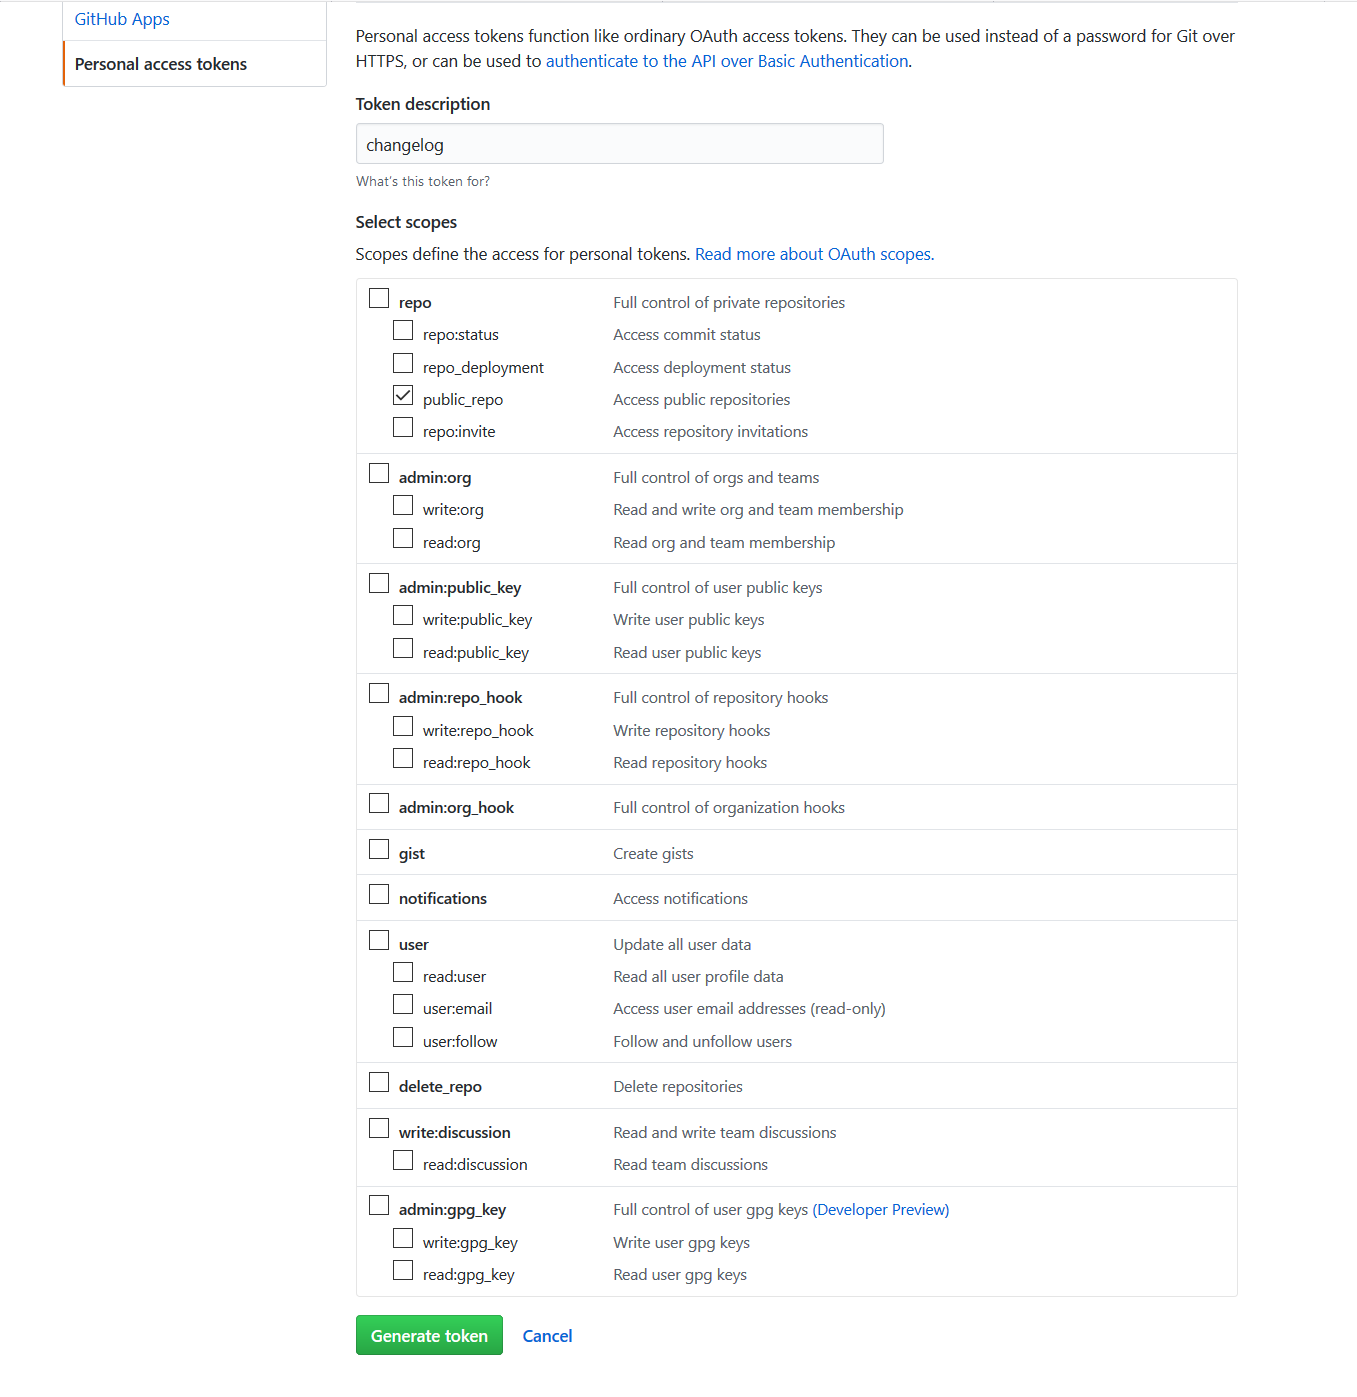
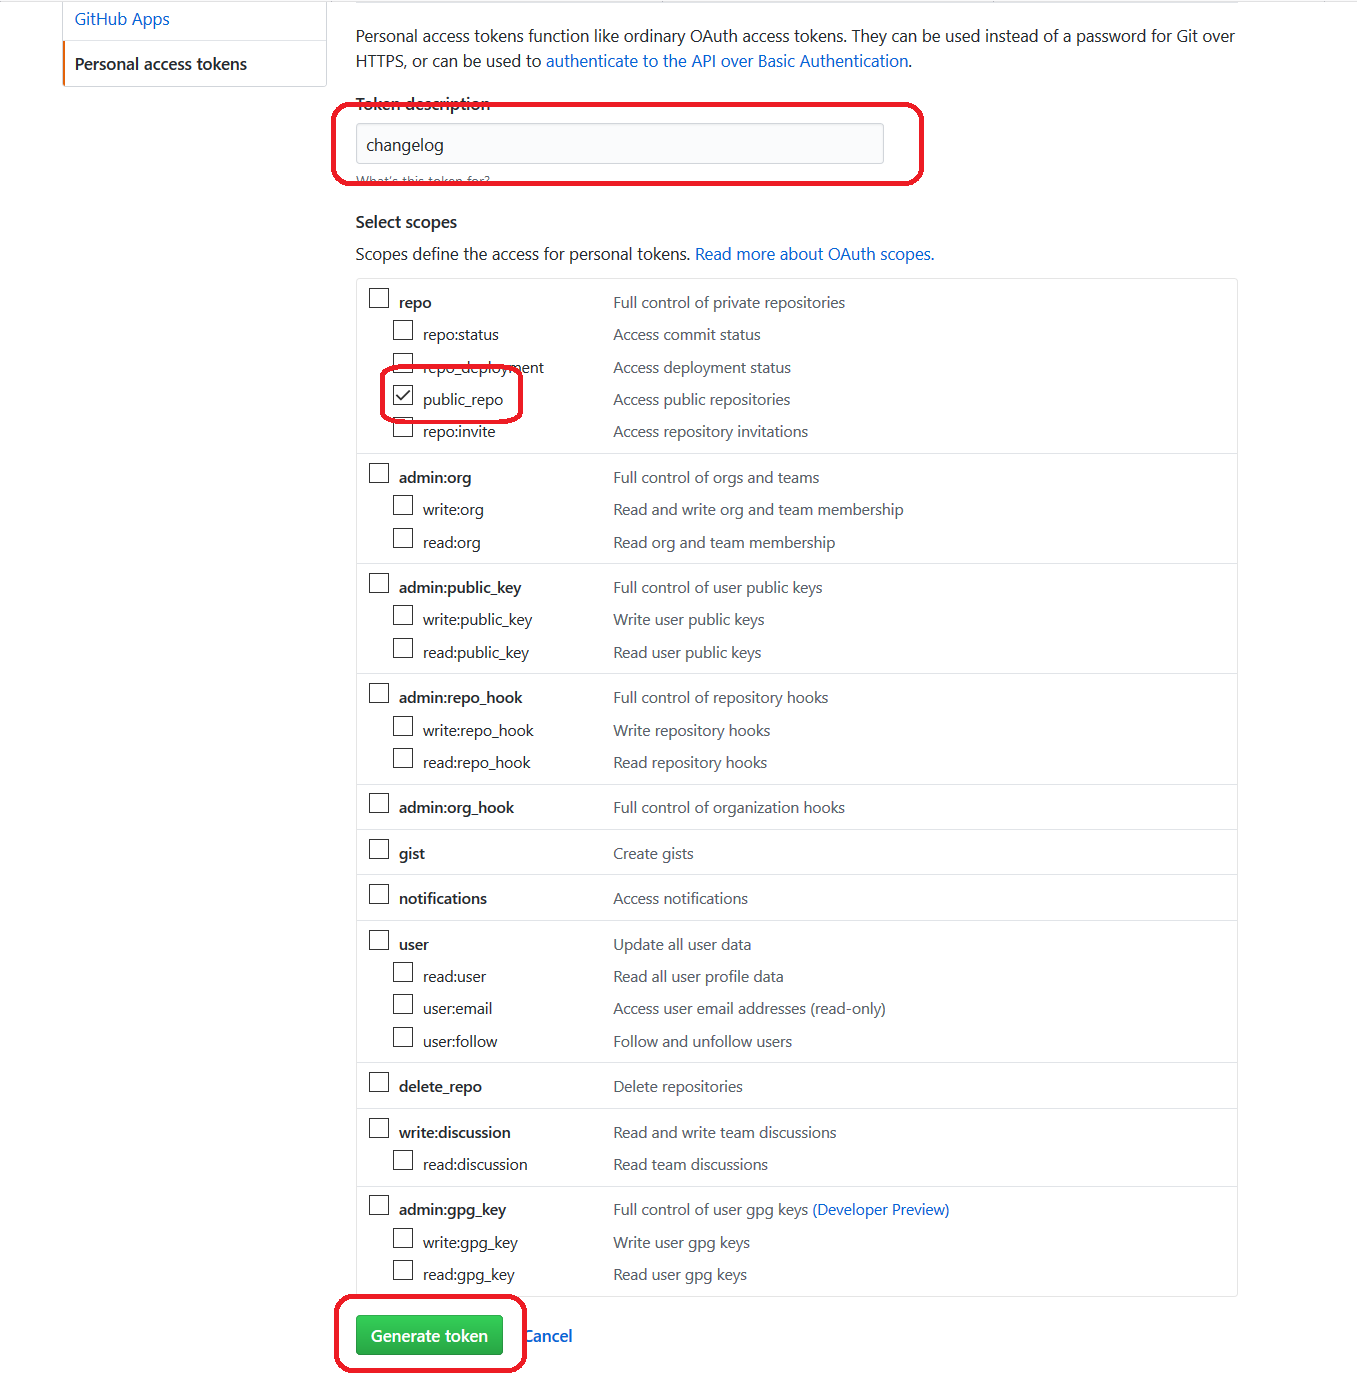
GitHub Access Token の作成方法の説明を改善

diff --git a/README.md b/README.md
@@ -21,14 +21,15 @@ https://developer.github.com/v3/#rate-limiting
 
 サクラエディタでは、匿名アクセスの制限では足りないので、制限を緩和するために Access Token を使用します。
 
-### GitHub Access Token の使用方法
+### GitHub Access Token の作成方法
+
+**注意: この GitHub Access Token はアカウント名とパスワードをあわせたものと同等なので誤って漏れないように注意してください。**
 
 1. https://github.com/settings/tokens/new にアクセスします。
-2. 以下画面で、`Token description` にわかり易い名前をつけた上で、`repo` にチェックを付けて、`Generate token` を押します。
+2. 以下画面で、`Token description` にわかり易い名前をつけた上で、`repo` の `public_repo` にチェックを付けて、`Generate token` を押します。(`repo` 全体にチェックをつける必要はありません。)
    ![Access Token](image/generate-access-token.png)
 3. Access Token が生成されるのでクリップボードにコピーします。
 
-**注意: この GitHub Access Token はアカウント名とパスワードをあわせたものと同等なので誤って漏れないように注意してください。**
 
 ## github_changelog_generator のインストール
 
